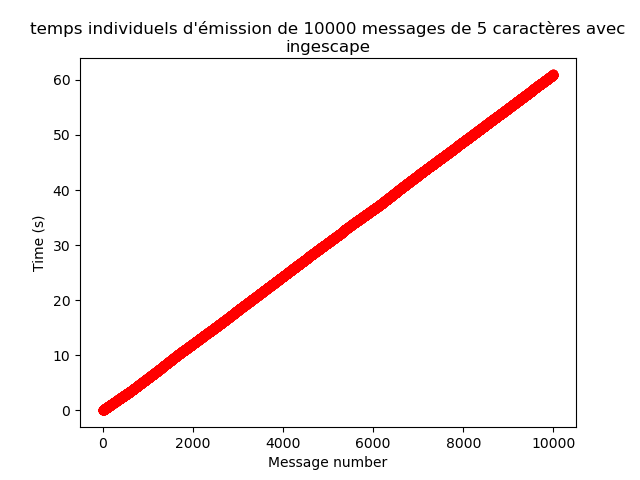
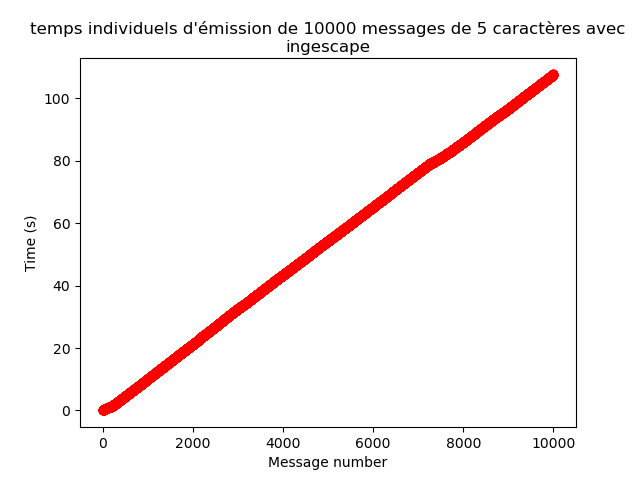
ingescape fonctionnel

diff --git a/main_send.py b/main_send.py
@@ -10,7 +10,7 @@ import getopt
 from ivy_direct import IvyDirectProtocol
 from ivy_protocol import IvyProtocol
 from zeromq import ZeroMQProtocol
-from kafka_protocol import KafkaProtocol
+#from kafka_protocol import KafkaProtocol
 from time import sleep
 
 
@@ -37,9 +37,9 @@ def main_send(protocol, message_count, port,length, queue, logger, traitement, f
         #port+=1       
         protocol_obj = ZeroMQProtocol(port, com,logger)
         protocol_obj.initialize()
-    elif protocol == 'kafka':
-        protocol_obj = KafkaProtocol(com,logger)
-        protocol_obj.initialize()
+    # elif protocol == 'kafka':
+    #     protocol_obj = KafkaProtocol(com,logger)
+    #     protocol_obj.initialize()
     elif protocol == 'ingescape':
         protocol_obj = IngescapeProtocol(com,port,device)
         protocol_obj.initialize()
@@ -52,10 +52,10 @@ def main_send(protocol, message_count, port,length, queue, logger, traitement, f
     
 
     recvrdy=""
-    while(not (str(nbr_processes-1) in recvrdy) ):
-            print(recvrdy)
-            recvrdy = queue.get()
-            print(recvrdy)
+    # while(not (str(nbr_processes-1) in recvrdy) ):
+    #         print(recvrdy)
+    #         recvrdy = queue.get()
+    #         print(recvrdy)
 
     if True:
         sleep(2)
@@ -78,7 +78,7 @@ def main_send(protocol, message_count, port,length, queue, logger, traitement, f
             #message = "hello =" + str(start_time)
             #print(message)
             protocol_obj.send_message(message)
-            #print(f"sending message n:{i}")
+            print(f"sending message n:{i}")
             sleep(traitement)
 
         

diff --git a/ingescape_protocol.py b/ingescape_protocol.py
@@ -18,7 +18,7 @@ def string_input_callback(iop_type, iop_name, value_type, value, my_data):
         t1= time.time()
         tmp = [callback_self.id, value, t1]
         callback_self.plt_data.append(tmp) 
-        #print(f"receiving message number {callback_self.id}") 
+        print(f"receiving message number {callback_self.id}") 
         callback_self.id+=1
     else:
         print("error callback_self")

diff --git a/main_receive_solo.py b/main_receive_solo.py
@@ -10,15 +10,6 @@ from main_receive import main_receive
 from time import sleep
 
 
-def start_zookeeper():
-    subprocess.run(['zookeeper-server-start', '/usr/local/etc/kafka/zookeeper.properties'])
-
-
-def start_kafka():
-    subprocess.run(['kafka-server-start', '/usr/local/etc/kafka/server.properties'])
-
-
-
 def main():
     
 
